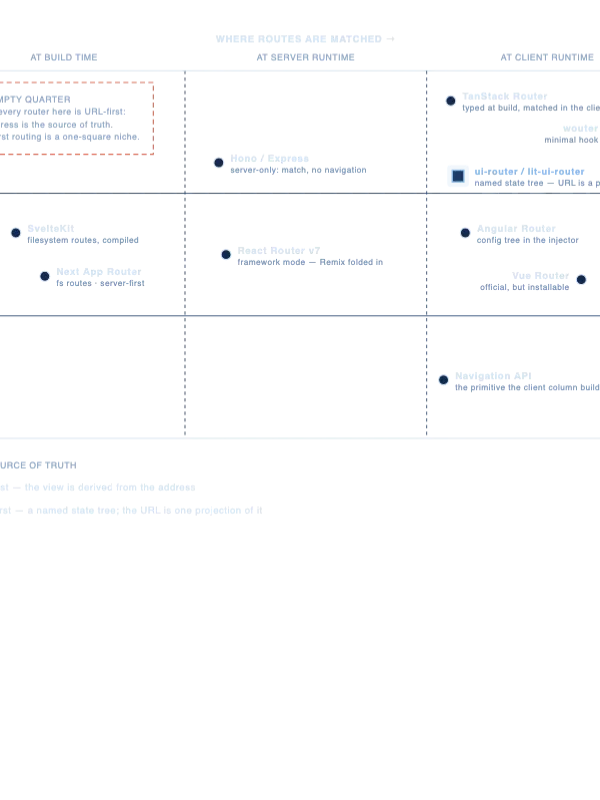
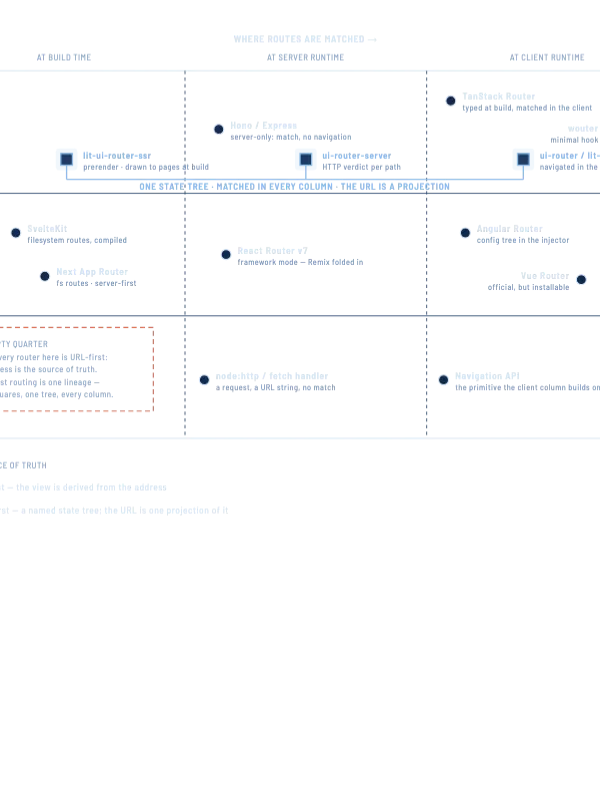
feat(atlas): sheet 5 draws the platform floor of the server column
Sheet 5 rev D. One circle at platform x server runtime, lettered node:http /
fetch handler with each name linked to its own home, the Node http docs and
the WinterTC Minimum Common Web Platform API, noted "a request, a URL string,
no match": the twin of the Navigation API in the client column, and what
Hono, Express and the lineage's connect and fetch adapters stand on. The
notes' column paragraph names the pair and keeps URLPattern off the plot as
the platform matcher that owns neither a request nor navigation. The sub
counts eleven entries, the aria label ten circles. Audit on 5 reads 0
escapes, 0 hits, 0 text-on-text; the card is reshot. The user asked for it.

Claude-Session: https://claude.ai/code/session_01D1vGNxyKzYdyFrP83hW1Zr

diff --git a/www/atlas.lit-ui-router.dev/app/public/sheets/5.html b/www/atlas.lit-ui-router.dev/app/public/sheets/5.html
@@ -1,9 +1,9 @@
 <section class="sheet" id="sheet-5" aria-label="Sheet 5: THE DESIGN SPACE">
   <div class="sheet-head"><span class="proj"><span class="project-mark">THE ALTITUDE ATLAS</span> — DRAWING SET</span><span class="shno">SHEET 5 / 14</span></div>
   <h2 class="sheet-title"><sup class="art">the&nbsp;</sup>DESIGN SPACE</h2>
-  <p class="sheet-sub">ALTITUDE 5 — ten routers placed by where matching happens and who owns navigation, shape marking the source of truth · positions are editorial, argued in the notes</p>
+  <p class="sheet-sub">ALTITUDE 5 — eleven entries placed by where matching happens and who owns navigation, shape marking the source of truth · positions are editorial, argued in the notes</p>
   <figure>
-    <div class="plate fillable" style="--plate-ar:1.6875"><button type="button" class="fill" data-fill aria-label="Enlarge this figure, or leave it"></button><div class="figure-wrap" tabindex="0" role="group" aria-label="Fig. 5, the drawing; scrolls sideways"><svg viewBox="0 0 1080 640" role="img" aria-label="A positioned chart of the JavaScript router design space: horizontal axis runs from build-time to server-runtime to client-runtime route matching; vertical bands separate platform, framework, and library ownership of navigation. Nine routers are plotted as labeled circles. The ui-router lineage is the one state-first entry, drawn as three squares on one row of the library band, one in each column — lit-ui-router-ssr at build time, ui-router-server at server runtime, lit-ui-router at client runtime — joined by a bracket, the sheet's only edge.">
+    <div class="plate fillable" style="--plate-ar:1.6875"><button type="button" class="fill" data-fill aria-label="Enlarge this figure, or leave it"></button><div class="figure-wrap" tabindex="0" role="group" aria-label="Fig. 5, the drawing; scrolls sideways"><svg viewBox="0 0 1080 640" role="img" aria-label="A positioned chart of the JavaScript router design space: horizontal axis runs from build-time to server-runtime to client-runtime route matching; vertical bands separate platform, framework, and library ownership of navigation. Ten entries are plotted as labeled circles, the platform's own primitives among them: the Navigation API at client runtime, node:http and the fetch handler at server runtime. The ui-router lineage is the one state-first entry, drawn as three squares on one row of the library band, one in each column — lit-ui-router-ssr at build time, ui-router-server at server runtime, lit-ui-router at client runtime — joined by a bracket, the sheet's only edge.">
 <defs>
   <marker id="s5-ai" viewBox="0 0 10 8" refX="9" refY="4" markerWidth="9" markerHeight="7" orient="auto-start-reverse">
     <path d="M0,0 L10,4 L0,8 z" class="fi"/>
@@ -73,6 +73,9 @@
 <g><title>Hono / Express — server-only: match, no navigation</title><circle cx="460.6" cy="140" r="6" class="sk fp" stroke-width="1.6"/>
 <a href="https://hono.dev/" target="_blank" rel="noopener"><text x="474.6" y="139" class="lblb" text-anchor="start" >Hono / Express</text></a>
 <text x="474.6" y="152" class="lblf" text-anchor="start" >server-only: match, no navigation</text></g>
+<g><title>node:http / fetch handler — a request, a URL string, no match</title><circle cx="443.2" cy="440" r="6" class="sk fp" stroke-width="1.6"/>
+<text x="457.2" y="439" class="lblb" text-anchor="start"><a href="https://nodejs.org/api/http.html" target="_blank" rel="noopener"><tspan>node:http</tspan></a><tspan> / </tspan><a href="https://min-common-api.proposal.wintertc.org/" target="_blank" rel="noopener"><tspan>fetch handler</tspan></a></text>
+<text x="457.2" y="452" class="lblf" text-anchor="start" >a request, a URL string, no match</text></g>
 <g><title>Navigation API — the primitive the client column builds on</title><circle cx="730.3" cy="440" r="6" class="sk fp" stroke-width="1.6"/>
 <a href="https://html.spec.whatwg.org/multipage/nav-history-apis.html#navigation-api" target="_blank" rel="noopener"><text x="744.3" y="439" class="lblb" text-anchor="start" >Navigation API</text></a>
 <text x="744.3" y="452" class="lblf" text-anchor="start" >the primitive the client column builds on</text></g>
@@ -115,7 +118,7 @@
       <h3>GENERAL NOTES</h3>
       
 <p><strong>This altitude forbids the city outright.</strong> A diagram's edges assert mechanism, and there is none between <a href="https://tanstack.com/router">TanStack</a> and <a href="https://svelte.dev/docs/kit/routing">SvelteKit</a>. The honest form is a positioned chart whose axes are real, contested design decisions — with the positions owned as editorial judgment, not measurement.</p>
-<p><strong>Reading the columns:</strong> the field has been sliding left for a decade — filesystem routes and typegen move matching toward build time; server components move it toward the server. The client-runtime column is where the platform itself now competes, via the <a href="https://html.spec.whatwg.org/multipage/nav-history-apis.html#navigation-api">Navigation API</a>.</p>
+<p><strong>Reading the columns:</strong> the field has been sliding left for a decade — filesystem routes and typegen move matching toward build time; server components move it toward the server. The client-runtime column is where the platform itself now competes, via the <a href="https://html.spec.whatwg.org/multipage/nav-history-apis.html#navigation-api">Navigation API</a>. The server-runtime column has a platform floor of its own, drawn as one circle with two names: <a href="https://nodejs.org/api/http.html"><code>node:http</code></a> hands a listener a request whose URL is a bare string, and the <a href="https://min-common-api.proposal.wintertc.org/">fetch handler</a> hands one a Request and wants a Response back; neither matches anything, and Hono, Express and the lineage's connect and fetch adapters all stand on one or the other. <a href="https://urlpattern.spec.whatwg.org/">URLPattern</a> is the platform's matcher, in browsers and global in Node 24, and it stays off the plot: it matches a string against a pattern and owns neither a request nor navigation, so it is a part routers are built from, not a router.</p>
 <p><strong>The squares are the argument.</strong> Every circle on this chart treats the URL as the source of truth and derives the view from it. The <a href="https://ui-router.github.io/">ui-router</a> lineage inverts that: a named, hierarchical state tree is primary, and the URL is a projection — one of several possible addresses for a state. That inversion is why <a class="xref" data-sheet="1" href="/sheet/1">sheet 1</a>'s loop runs through a state registry rather than a path matcher, and why the same tree answers HTTP requests in <a class="xref" data-sheet="2" href="/sheet/2">sheet 2</a>'s server lane. It is also why the squares sit alone: the niche is real, small, and — for state-heavy embedded UIs where the address bar is not the whole story — defensible.</p>
 <p><strong>One tree, every column — and this atlas is the measurement.</strong> The lineage is the one entry drawn in all three columns, and the bracket under its row is the sheet's one edge with a mechanism behind it. <a href="https://lit-ui-router.dev/packages/server"><code>ui-router-server</code></a> compiles the same state declarations into a mount table and gives each path an HTTP verdict — shell, redirect or 404 — at server runtime, in its connect, vite, fetch and hono adapters. <a href="https://lit-ui-router.dev/packages/ssr"><code>lit-ui-router-ssr</code></a> takes that mount table at build time, drives one router to every path and draws each <code>&lt;ui-view&gt;</code> to a page; its client half adopts the page one view per route match, the per-boundary, provided cell of the <a href="https://lit-ui-router.dev/packages/ssr#how-this-compares">hydration models its guide compares</a>. Every page of this atlas, this one included, is a verdict the server router gave and a document the prerenderer wrote at build, adopted by <code>lit-ui-router</code> at client runtime: the three squares are the three times one state tree matched the address you are reading.</p>
     </div>
@@ -132,7 +135,7 @@
   <div><span class="fld">SCALE</span>JS ECOSYSTEM</div>
   <div><span class="fld">FORM</span>POSITIONED CHART</div>
   <div><span class="fld">CLIENT</span>lit-ui-router · simshanith</div>
-  <div><span class="fld">DATE / REV</span>2026-10-10 · C</div>
+  <div><span class="fld">DATE / REV</span>2026-10-10 · D</div>
   <div><span class="fld">DRAWN BY</span><span class="hand">Fable (Claude, AI)</span></div>
   <div class="sh"><span><span class="fld">SHEET</span>5 OF 14</span><span class="chop" aria-hidden="true"></span></div>
 </div>

diff --git a/www/atlas.lit-ui-router.dev/HISTORY.md b/www/atlas.lit-ui-router.dev/HISTORY.md
@@ -682,7 +682,7 @@ resolved →
 
 ## Sheet 5 — THE DESIGN SPACE
 
-- **file** `diagrams/generator/sheet5.mjs` · **id** `runtime` · **current rev** C
+- **file** `diagrams/generator/sheet5.mjs` · **id** `runtime` · **current rev** D
 - **subject line / lead** (resolved, present-state — not history):
 
 > ALTITUDE 5 — routers in the JS runtime · positions are editorial, argued in the notes
@@ -692,6 +692,14 @@ resolved →
 **`sub` clause** (verbatim source):
 
 > REV B 2026-09-06: the empty-quarter callout re-cut to the line it frames (330 → 236 wide) — the dashed box had been drawn to the mono lettering and, at the data face, crossed the first column boundary into the server column it says nothing about; no point moved
+
+### REV D — 2026-10-12
+
+**clause** (the record's own; the sub carries no rev clauses):
+
+> REV D 2026-10-12: the server-runtime column gets its platform floor — one circle at platform × server runtime, x 0.36, lettered `node:http / fetch handler` with each name linked to its own home (the Node http docs; the WinterTC Minimum Common Web Platform API), note "a request, a URL string, no match"; the Navigation API's twin in the client column. The notes' column paragraph names the pair and keeps URLPattern off the plot as the platform's matcher that owns neither a request nor navigation; the sub counts eleven entries, the aria label ten circles.
+
+The user: "for sheet 5 wondering if node http server module qualifies? for platform x server runtime zone" and then "go, draw the pair and note urlpattern". The rev B/C empty-quarter callout sits at platform × build time and is untouched; the new circle's lettering ends short of the server/client column line.
 
 ### REV C — 2026-10-11
 
